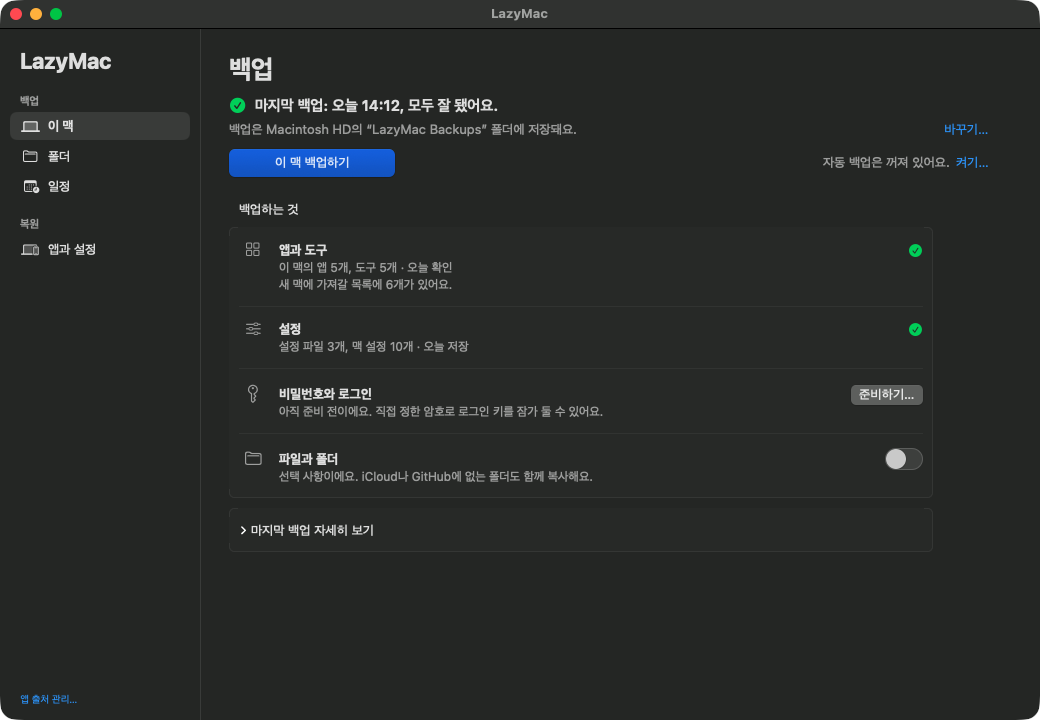
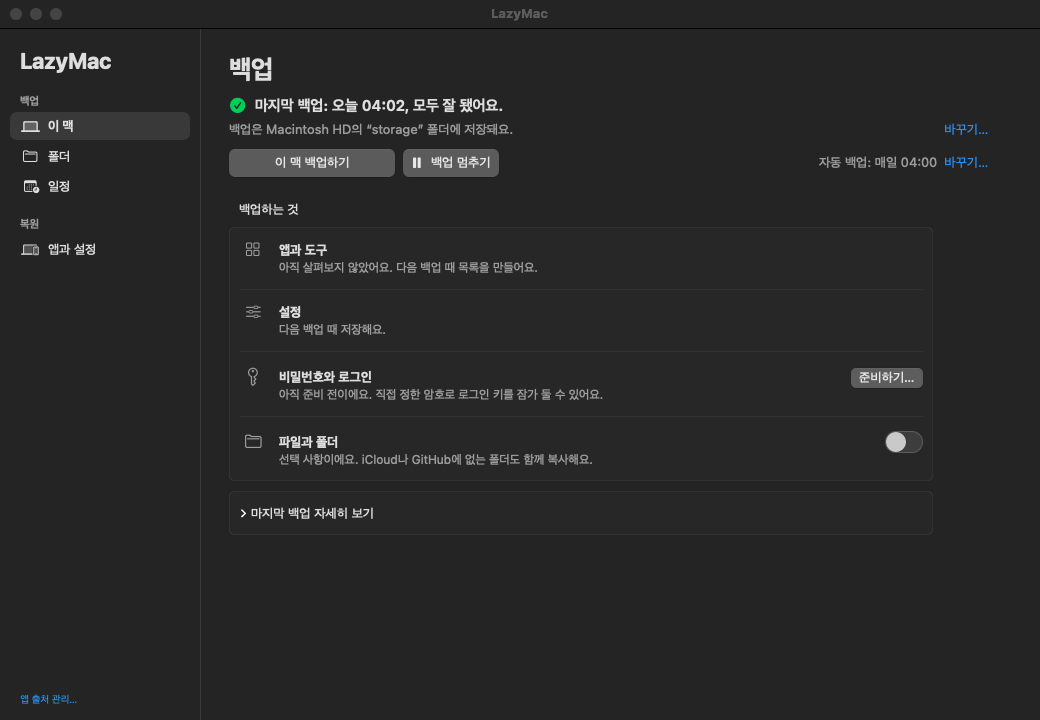
Explain missed backups, metered connections and pausing in the README, with new screenshots

diff --git a/README-ko.md b/README-ko.md
@@ -17,7 +17,8 @@ LazyMac의 목표는 하나예요. 다음 맥을 이 맥과 같은 앱과 도구
 
 - **새 맥에 깨끗하게 설치**: 가져올 것을 고르고, 확인하고, 설치해요.
 - **버튼 하나로 백업**: 기본은 Google 드라이브이고, 폴더나 외장 디스크도 쓸 수 있어요.
-- **자동 백업**이 매시간, 매일, 매주 돌아요. 앱을 닫아 둬도 돌아요.
+- **자동 백업**이 매시간, 매일, 매주 돌아요. 앱을 닫아 둬도 돌아요. 맥이 꺼져 있거나 잠들었거나 인터넷이 없어서 놓친 백업은 할 수 있게 되는 대로 한 번 해요.
+- **언제든 멈추기**: 버튼 하나로 도는 백업을 안전하게 멈추고, 다시 켤 때까지 모든 백업을 쉬어요.
 - **비밀번호는 내가 정한 암호로 잠근** 파일 하나에 담겨요.
 - **폴더 백업은 선택**: 프로젝트 같은 폴더 복사는 직접 켜기 전까지 꺼져 있어요.
 - **아무것도 지우지 않아요**: 백업은 파일을 지우지 않고, 복원은 있는 파일을 덮어쓰지 않아요.
@@ -59,6 +60,12 @@ LazyMac의 목표는 하나예요. 다음 맥을 이 맥과 같은 앱과 도구
 3. 바로가기 버튼으로 LazyMac에 **전체 디스크 접근 권한**을 줘요. 그래야 백그라운드 백업이 모든 폴더를 읽을 수 있어요.
 
 LazyMac은 LaunchAgent(`local.lazymac-daily`)를 설치해서 앱을 닫아 둬도 같은 백업을 돌려요. **백업** 화면에 마지막 결과가 나와요. 실패하면 "백업 디스크가 연결되어 있지 않아요"처럼 이유를 쉬운 말로 알려 주고, 고치는 버튼도 보여 줘요. 기록은 `~/Library/Logs/lazymac-daily/`에 30일 동안 남아요.
+
+**놓친 백업.** 로그인할 때와 30분마다도 확인해요. 정해진 시각에 맥이 꺼져 있었거나, 잠들었거나, 로그아웃했거나, 인터넷이 없었으면 할 수 있게 되는 대로 한 번 백업해요. 여러 번 놓쳤어도 한 번만 해요. 잠에서 깬 뒤 1분은 와이파이를 기다려요. 놓친 백업을 다음 정시 전 주기의 절반 안에 했으면 그 정시는 건너뛰어요. 자동 백업이 실패하면 15분, 30분, 60분, 120분 뒤에 다시 해요. 알림은 안 좋은 상황마다 한 번만 와요: 3번 연달아 실패했거나, 마지막 백업이 주기의 2배보다 오래됐을 때예요.
+
+**핫스팟과 저데이터 모드.** **일정**에서 **데이터 요금이 드는 연결에서는 기다리기**를 켜면 그런 연결에서는 자동 백업이 돌지 않아요(처음엔 꺼짐). **이 맥 백업하기**는 그래도 돼요. 한 번 물어본 뒤 백업해요.
+
+**백업** 화면의 **백업 멈추기**는 도는 백업을 안전한 지점에서 멈추고(복사가 중간에 끊겨도 반쯤 쓴 파일은 남지 않아요), **백업 다시 켜기**를 누를 때까지 자동 백업도 버튼 백업도 시작하지 않아요.
 
 ## 새 맥으로 복원
 

diff --git a/README.md b/README.md
@@ -17,7 +17,8 @@ Years of old files and leftovers stay behind.
 
 - **Clean install on a new Mac**: pick what to bring, review it, and install.
 - **One-click backup** to Google Drive by default, or to a folder or external disk.
-- **Automatic backups** every hour, day, or week, even when the app is closed.
+- **Automatic backups** every hour, day, or week, even when the app is closed. A backup missed while the Mac was off, asleep, or offline runs once as soon as it can.
+- **Pause anytime**: one button stops a running backup safely and keeps every backup waiting until you resume.
 - **Passwords locked with your passphrase** in one encrypted file.
 - **Folder backup is optional**: copying folders such as projects is off until you turn it on.
 - **Nothing is deleted**: backups never remove files, and restores never overwrite yours.
@@ -59,6 +60,12 @@ Every backup is checked with `gitleaks` before it is saved, so a stray password 
 3. Click the shortcut to give LazyMac **Full Disk Access**, so background backups can read every folder.
 
 LazyMac installs a LaunchAgent (`local.lazymac-daily`) that runs the same backup when the app is closed. The **Back Up** screen shows the last result. If a backup fails, it says why in plain words (for example "Your backup disk is not connected") with a button to fix it. Logs are kept for 30 days in `~/Library/Logs/lazymac-daily/`.
+
+**Missed backups.** The job also checks at login and every 30 minutes. If the Mac was off, asleep, logged out, or offline at the scheduled time, it backs up once when it can, however many times were missed. A minute after waking it waits for Wi-Fi. If that catch-up ran less than half a period before the next scheduled time, the next one is skipped. A failed automatic backup tries again after 15 minutes, then 30, 60, and 120. You get one notification per bad stretch: after three failures in a row, or when the last backup is more than two periods old.
+
+**Hotspots and Low Data Mode.** Turn on **Wait on connections that may charge for data** in **Schedule** to keep automatic backups from running there (off at first). **Back Up This Mac** still works: it asks first, then backs up.
+
+**Pause Backups** on the **Back Up** screen stops a running backup at a safe point (a cut-short copy leaves no half-written file) and keeps automatic and manual backups from starting until you click **Resume Backups**.
 
 ## Restore to a new Mac
 
